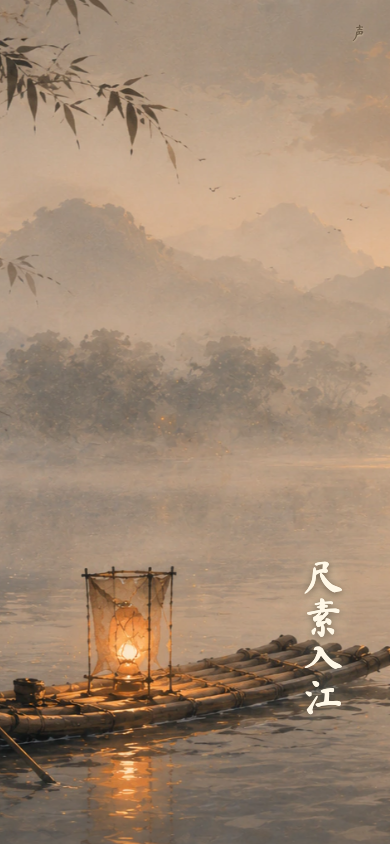
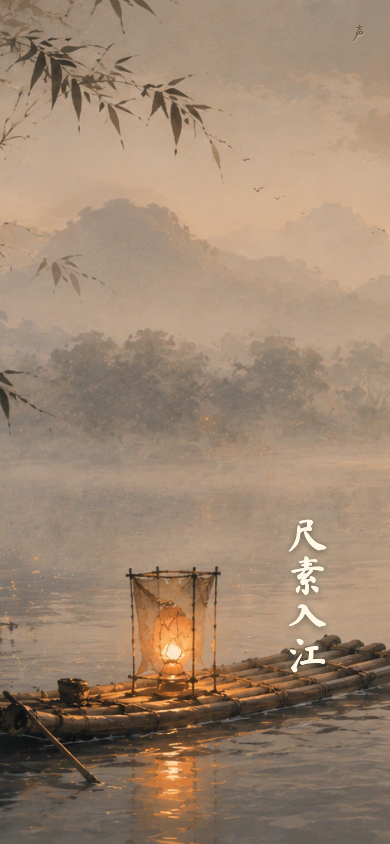
Final XHS mobile framing hotfix before Mac format

diff --git a/index.html b/index.html
@@ -910,7 +910,8 @@
       will-change:transform;
     }
     @media (max-width:600px) and (orientation:portrait) {
-      #landing > .scene-art,
+      #landing > .scene-art { object-position:30% 50%; }
+      #landing .landing-title { right:16% !important; bottom:20% !important; }
       #compose > .scene-art,
       #journey > .scene-art,
       #weave > .scene-art { object-position:35% 50%; }

diff --git a/release-snapshot/xhs-dist/index.html b/release-snapshot/xhs-dist/index.html
@@ -934,7 +934,8 @@
       will-change:transform;
     }
     @media (max-width:600px) and (orientation:portrait) {
-      #landing > .scene-art,
+      #landing > .scene-art { object-position:30% 50%; }
+      #landing .landing-title { right:16% !important; bottom:20% !important; }
       #compose > .scene-art,
       #journey > .scene-art,
       #weave > .scene-art { object-position:35% 50%; }

diff --git a/xhs-dist/index.html b/xhs-dist/index.html
@@ -934,7 +934,8 @@
       will-change:transform;
     }
     @media (max-width:600px) and (orientation:portrait) {
-      #landing > .scene-art,
+      #landing > .scene-art { object-position:30% 50%; }
+      #landing .landing-title { right:16% !important; bottom:20% !important; }
       #compose > .scene-art,
       #journey > .scene-art,
       #weave > .scene-art { object-position:35% 50%; }

diff --git a/PROJECT_HANDOFF.md b/PROJECT_HANDOFF.md
@@ -11,14 +11,14 @@
 - Global cinematic polish and mobile interaction fixes are complete.
 - Paper, firefly, pavilion narrative, and audio interactions are implemented.
 - Choice Echo is intentionally not part of the release.
-- The official Xiaohongshu minitool skill is installed, used, and previously passed validation.
+- The official Xiaohongshu minitool skill is installed, used, and the latest release candidate passed validation.
 - The working tree is the current backup target; do not revert it to an earlier release hash.
 
 ## Packaging notes
 
 Raw OGG was rejected by the real XHS uploader. Production audio was therefore converted/embedded into JavaScript-compatible packaged data; runtime code was externalized as required, and compatibility was adjusted to the official skill.
 
[2 lines of base64/hex data omitted]
 
 ## Current release target
 
@@ -29,12 +29,12 @@ The known earlier official-skill-passing artifact was `chisu-xhs-release.zip` (2
 
 The runtime `assets/` path is a symlink to `/Users/jiangpeihan/Desktop/assets`. To make the backup independently restorable, the resolved original fonts, images, and audio are preserved under `source-masters/assets/` (26 files). This snapshot is non-runtime and does not alter the game. After a restore, recreate `assets` as a symlink to `source-masters/assets` if the original Desktop path is unavailable.
 
-## Remaining real-device task
+## Latest approved mobile framing hotfix
 
-Portrait framing/cropping requires a final real-XHS-device review/hotfix. Some portrait scenes can crop important background subjects: the raft may be too cropped and the pavilion may be mostly outside the visible crop.
+The real-device mobile framing hotfix is complete. On mobile, the opening focal point is `30% 50%`; the raft is approximately 75% visible; and the title is positioned at right 16%, bottom 20%. Desktop remains `50% 50%`. The complete flow reaches `FINAL_IDLE` at both 390×844 and 430×932. The official Xiaohongshu validator passed.
 
-After restoration, do only **FAST XHS MOBILE FRAMING HOTFIX ONLY**: retain full-bleed backgrounds and use scene-specific mobile `object-position` / `background-position`. Do not redesign the game.
+After restoration, preserve this approved state; do not redo the framing hotfix unless a new real-device issue is observed.
 
 ## Recent checkpoint files
 
-Most recently modified before backup documentation: `chisu-xhs-release.zip`, `work/mobile-framing-390x844-ending.png`, `work/mobile-framing-430x932-ending.png`, `work/mobile-framing-390x844-pavilion.png`, `work/mobile-framing-430x932-pavilion.png`, `work/mobile-framing-390x844-opening.png`, `work/mobile-framing-430x932-opening.png`, and `work/qa_mobile_framing.mjs`.
+Most recently modified for the approved hotfix: `chisu-xhs-release.zip`, `index.html`, `xhs-dist/index.html`, `work/mobile-framing-390x844-opening.png`, `work/mobile-framing-390x844-pavilion.png`, `work/mobile-framing-430x932-opening.png`, and `work/qa_mobile_framing.mjs`.

diff --git a/RESTORE_ON_NEW_MAC.md b/RESTORE_ON_NEW_MAC.md
@@ -7,6 +7,6 @@
 5. The original source masters are committed under `source-masters/assets/`. Recreate `assets` as a symlink to that directory if the original `/Users/jiangpeihan/Desktop/assets` path is unavailable. The full archive provides a second copy; verify its supplied SHA-256 checksum first.
 6. Open the restored project directory in Codex.
 7. Run a simple local preview using the existing project scripts; do not rebuild from scratch.
-8. Continue only with the XHS real-device mobile framing hotfix: preserve full-bleed scenes and adjust scene-specific portrait positioning.
+8. Preserve the approved mobile framing state. Both 390×844 and 430×932 flows reach `FINAL_IDLE`, and the latest candidate passed the official XHS validator; do not redo the framing hotfix unless a new real-device issue is observed.
 
 The full archive is an independent recovery copy and contains hidden `.codex` files, assets, release artifacts, QA evidence, and documentation.

diff --git a/release-snapshot/RELEASE_METADATA.md b/release-snapshot/RELEASE_METADATA.md
@@ -2,7 +2,7 @@
 
 - Snapshot date: 2026-09-04
 - Release artifact: `chisu-xhs-release.zip`
-- Exact bytes: 2,627,144
[1 lines of base64/hex data omitted]
+- Exact bytes: 2,627,161
[1 lines of base64/hex data omitted]
 - Included alongside this file: `xhs-dist/` and `xhs-final-qa-report.md`
-- Artifact integrity: `unzip -t` passed on 2026-09-04.
+- Artifact integrity: official Xiaohongshu validator passed on 2026-09-04.
